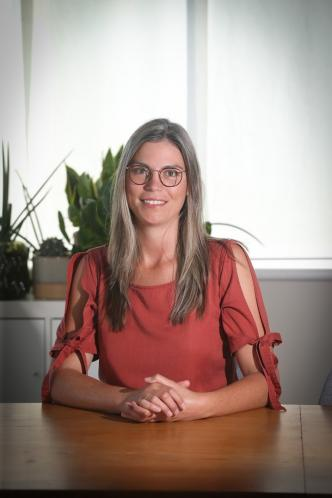
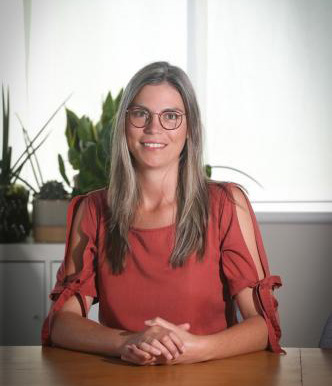
more on plenary

diff --git a/program/index.html b/program/index.html
@@ -31,14 +31,14 @@
 	
  <script id="replace_with_navbar" src="nav.js"></script>
 
-<p>The program is not yet complete, so please keep checking in for details.</p>
+<p>The program is not yet complete, so keep checking in for more details.</p>
 
     <h2>Plenary Speakers</h2>
 	
 	<table>
   <tr>
     <th><img src="assets/Carl_T._Bergstrom.jpg" style="width: 50%" alt="David Borg"></th>
-    <th><img src="assets/Laure Wynants_300720_KH_02.jpg" style="width: 50%" alt="David Borg"></th>
+    <th><img src="assets/Laure Wynants_300720_KH_02.jpg" style="width: 150%" alt="David Borg"></th>
   </tr>
   <tr>
     <td><a href="https://www.biology.washington.edu/people/profile/carl-bergstrom">Carl Bergstrom</a></td>

diff --git a/index.html b/index.html
@@ -28,10 +28,7 @@
   
    <script id="replace_with_navbar" src="nav.js"></script>
 
-    <h2>AIMOS 2023</h2>
-    <p>
-        The fifth annual conference of the Association for Interdisciplinary Metaresearch & Open Science (AIMOS). 
-    </p>
+    <h2>AIMOS 2023: The fifth annual conference of the Association for Interdisciplinary Metaresearch & Open Science (AIMOS).</h2>
 
     <h2>Organisers</h2>
 	
